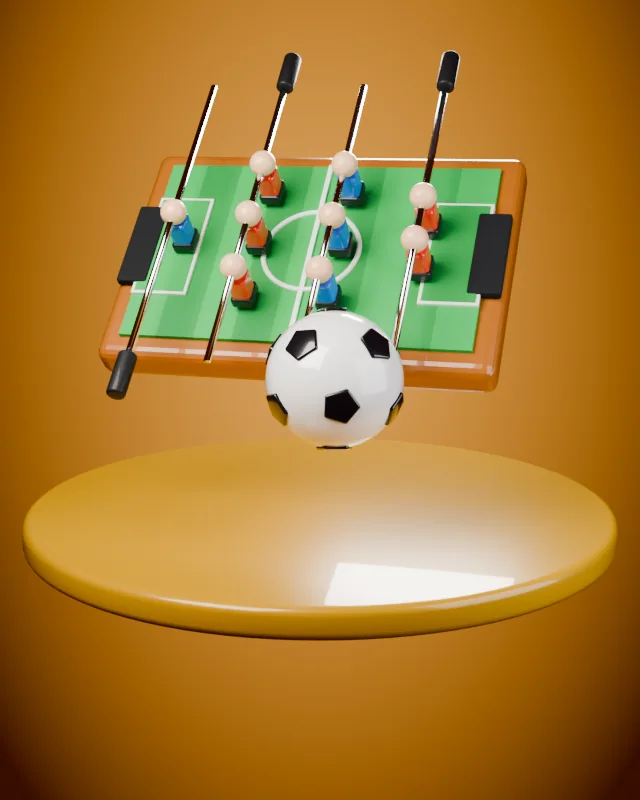
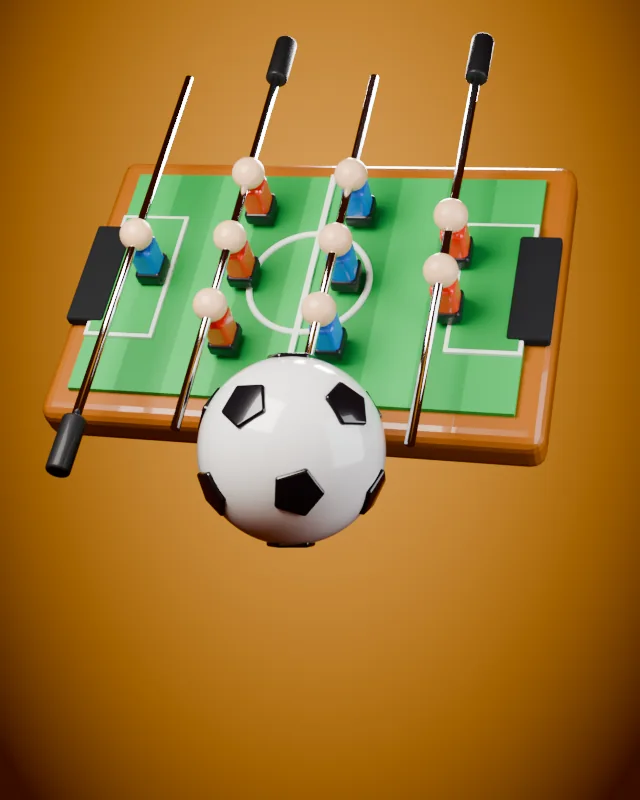
Register Pebolim (foosball)

diff --git a/js/core/art.js b/js/core/art.js
@@ -89,7 +89,7 @@ const ART = {
 
 // 3D covers (assets/covers/<id>.webp, rendered by tools/covers). Games without one
 // fall back to the drawn illustrations above.
-const COVERS = new Set(['soccer', 'squad', 'mapquiz', 'flags', 'polyglot', 'busjam', 'waldo', 'findit', 'wordsearch', 'hero', 'million', 'towers', 'naval', 'farm', 'pingpong', 'blocks', 'water', 'snake', 'numbers', 'solitaire', 'checkers', 'domino', 'sudoku', 'g2048', 'crossword', 'mines', 'lights', 'dice', 'stack', 'maze', 'colors', 'blackjack', 'sueca', 'bisca', 'buraco', 'truco', 'poker']);
+const COVERS = new Set(['soccer', 'squad', 'mapquiz', 'flags', 'polyglot', 'busjam', 'waldo', 'findit', 'wordsearch', 'hero', 'million', 'towers', 'naval', 'farm', 'pingpong', 'blocks', 'water', 'snake', 'numbers', 'solitaire', 'checkers', 'domino', 'sudoku', 'g2048', 'crossword', 'mines', 'lights', 'dice', 'stack', 'maze', 'colors', 'blackjack', 'sueca', 'bisca', 'buraco', 'truco', 'poker', 'foosball']);
 export const hasCover = (id) => COVERS.has(id);
 export const coverUrl = (id) => new URL(`../../assets/covers/${id}.webp`, import.meta.url).href;
 

diff --git a/js/games.js b/js/games.js
@@ -21,6 +21,7 @@ import buracoEntry from '../games/buraco/entry.js';
 import suecaEntry from '../games/sueca/entry.js';
 import biscaEntry from '../games/bisca/entry.js';
 import pokerEntry from '../games/poker/entry.js';
+import foosballEntry from '../games/foosball/entry.js';
 
 export const GAMES = [
   {
@@ -497,7 +498,7 @@ export const GAMES = [
 ];
 
 // Games that ship their own entry.js
-GAMES.push(minesEntry, lightsEntry, stackEntry, mazeEntry, trucoEntry, colorsEntry, blackjackEntry, buracoEntry, suecaEntry, biscaEntry, pokerEntry);
+GAMES.push(minesEntry, lightsEntry, stackEntry, mazeEntry, trucoEntry, colorsEntry, blackjackEntry, buracoEntry, suecaEntry, biscaEntry, pokerEntry, foosballEntry);
 
 export const CATEGORIES = [
   { id: 'all', label: { pt: 'Todos', en: 'All', es: 'Todos' } },

diff --git a/games/goo/render.js b/games/goo/render.js
@@ -737,8 +737,9 @@ export function createRenderer(canvas) {
     const pipe = lv.pipe;
     const a0 = (lv.anchors && lv.anchors[0]) || [60, 600];
     // saved goos wait next to the pipe (or beside the first anchor for height goals) and hop in on a win
-    const baseX = pipe ? pipe.x + pipe.r + 22 : a0[0] - 46;
-    const dir = pipe ? 1 : -1;
+    let dir = pipe ? 1 : -1;
+    if (pipe && pipe.x + pipe.r + 22 + (need - 1) * 32 > lv.bounds[2] - 16) dir = -1;
+    const baseX = pipe ? pipe.x + dir * (pipe.r + 22) : a0[0] - 46;
     const gy = (pipe ? pipe.y + 20 : a0[1] + 8) - 15;
     const wonT = sim.status === 'won' ? f.time - f.winTime : -1;
     for (let i = 0; i < need; i++) {

diff --git a/tools/covers/foosball.py b/tools/covers/foosball.py
@@ -40,5 +40,5 @@ rod(1.8, red, [-0.4, 0.4])
 slab = parent(objs, loc=(0, 0.5, 2.0), rot=(46, 0, -16))
 soccer_ball(1.0, loc=(-0.3, -2.5, 1.0), rot=(20, 10, 40))
 
-fit(0.84, 0.75)
+fit(0.78, -0.35)
 render('foosball')
